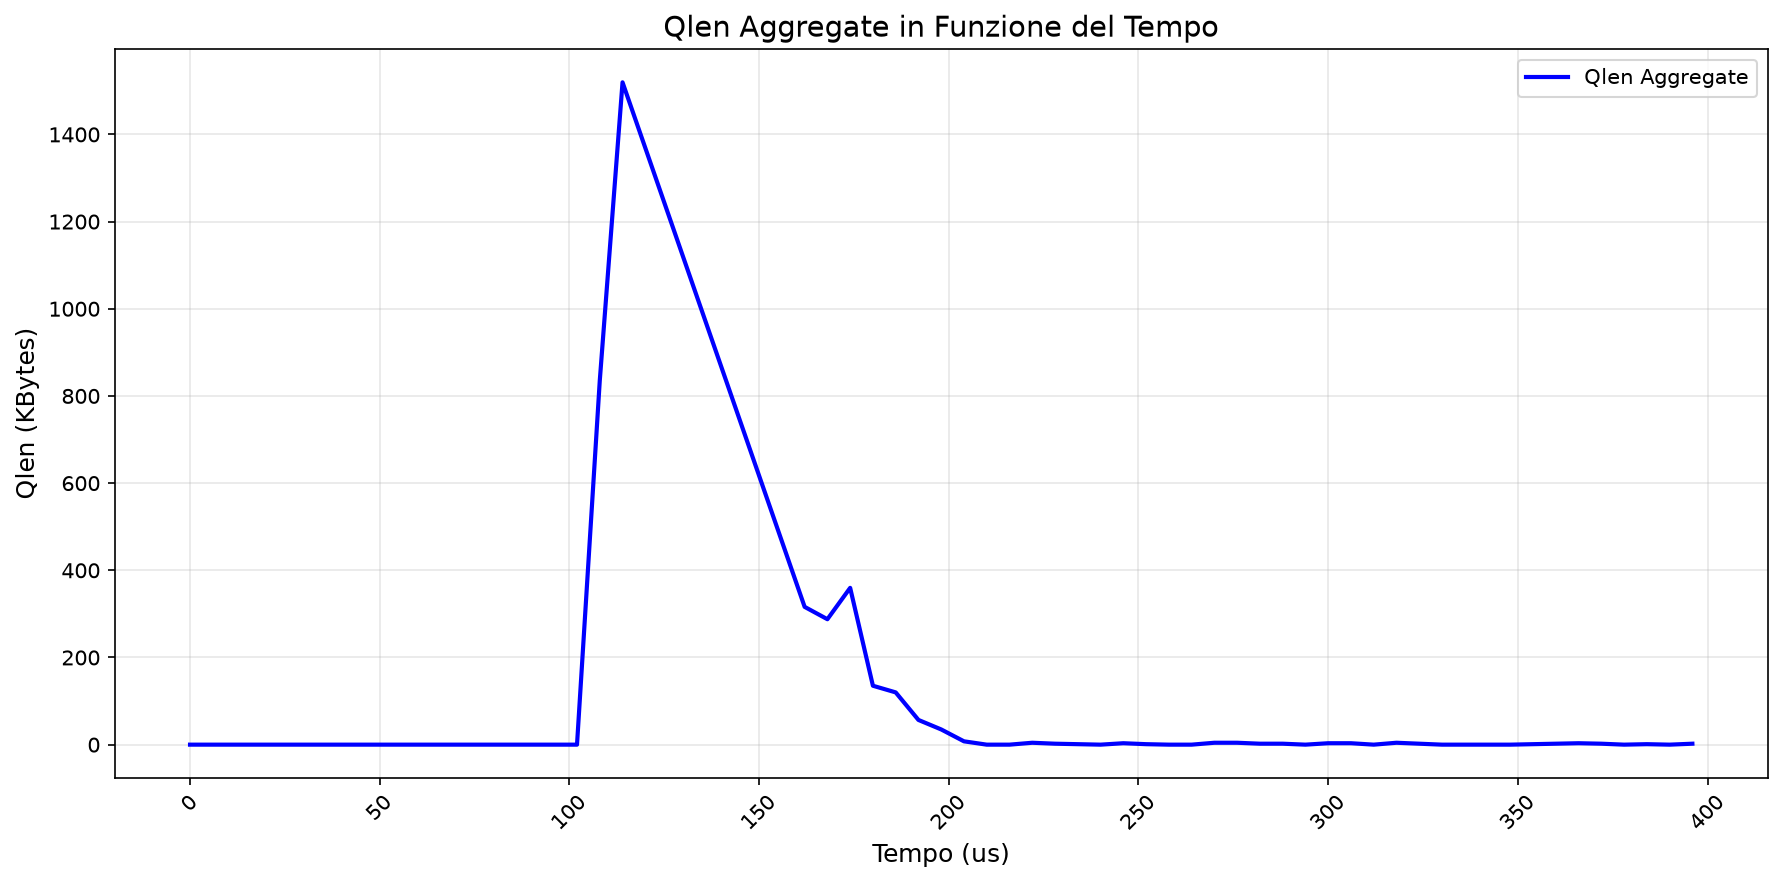
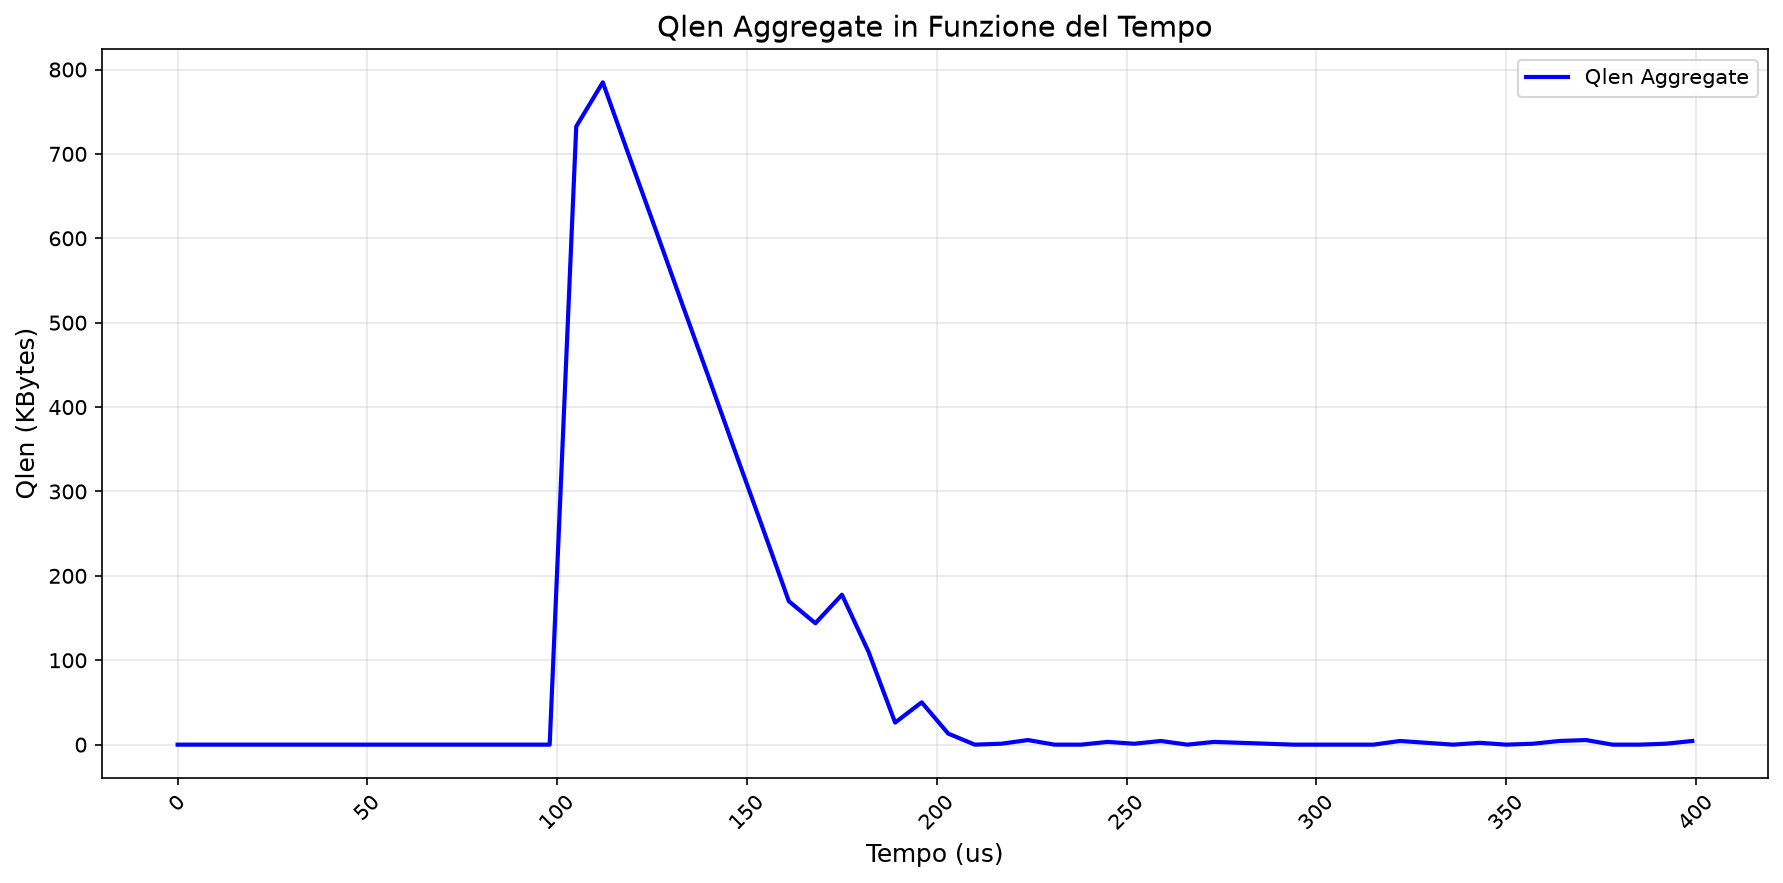
Fixed qlen and throughput visualizer

diff --git a/Trace visualizer/throughput and queues legths visualizers.py b/Trace visualizer/throughput and queues legths visualizers.py
@@ -10,7 +10,7 @@ import argparse
 
 import plt
 
-FILE_NAME = "mix_incast_incastflow_hp95ai600.tr"
+FILE_NAME = "mix_incast_incastflow_hp95ai300.tr"
 INPUT_FOLDER_ROOT = "data\\input\\"+FILE_NAME+".txt"
 OUTPUT_FOLDER = "data\\output\\"+FILE_NAME+"\\"
 
@@ -68,34 +68,36 @@ def calcola_throughput_e_queues_lengths(nome_file):
                 tr = Trace(linea)
                 flow_id = identifica_flow_id(tr)
                 queue_id = identifica_queue_id(tr)
-                if tr.type == "ACK":
+                if tr.type == "ACK" and tr.protocol == "Recv":
                     flow_id = reverse_identifica_flow_id(tr)
-                    if flows[flow_id]["last acknowledged"] >= tr.seq:
-                        continue
-                    sum = 0
+                    if (tr.dip+":"+tr.dp) == flows[flow_id]["source"]:
+                        if flows[flow_id]["last acknowledged"] >= tr.seq:
+                            continue
+                        sum = 0
 
-                    keys_to_remove = []
-                    for data in flows[flow_id]["data received"]:
-                        if int(data) >= flows[flow_id]["last acknowledged"] and int(data) < tr.seq:
-                            sum += flows[flow_id]["data received"][data]
-                            keys_to_remove.append(data)
+                        keys_to_remove = []
+                        for data in flows[flow_id]["data received"]:
+                            if int(data) >= flows[flow_id]["last acknowledged"] and int(data) < tr.seq:
+                                sum += flows[flow_id]["data received"][data]
+                                keys_to_remove.append(data)
 
-                    for k in keys_to_remove:
-                        del flows[flow_id]["data received"][k]
+                        for k in keys_to_remove:
+                            del flows[flow_id]["data received"][k]
 
-                    flows[flow_id]["last acknowledged"] = tr.seq
-                    value = sum / (tr.time - flows[flow_id]["throughput"][-1]["time"])
-                    flows[flow_id]["throughput"].append({
-                        "time": tr.time,
-                        "value": value
-                    })
+                        flows[flow_id]["last acknowledged"] = tr.seq
+                        value = sum / (tr.time - flows[flow_id]["throughput"][-1]["time"])
+                        flows[flow_id]["throughput"].append({
+                            "time": tr.time,
+                            "value": value
+                        })
 
                 elif tr.type == "DATA":
                     if not flow_id in flows:
                         flows[flow_id] = {
                             "throughput": [{"time": 2000000000, "value": 0}],
                             "data received": {},
-                            "last acknowledged": 0
+                            "last acknowledged": 0,
+                            "source": tr.sip+":"+tr.sp
                         }
                     flows[flow_id]["data received"][str(tr.seq)] = tr.size
 
@@ -288,7 +290,7 @@ if __name__ == "__main__":
 
     start_t = 2000000000
     end_t = 2000400000
-    for t in range(start_t, end_t, 6000):
+    for t in range(start_t, end_t, 7000):
         sum = 0
         for f in flows:
             app_last_index_x = last_indexes_f[f]
@@ -312,7 +314,7 @@ if __name__ == "__main__":
         })
 
 
-    for t in range(start_t, end_t, 6000):
+    for t in range(start_t, end_t, 7000):
         sum = 0
         for q in queues:
             app_last_index_x = last_indexes_q[q]
@@ -326,7 +328,7 @@ if __name__ == "__main__":
 
             last_indexes_q[q] = app_last_index_x
 
-            sum += last_elem_Q["value"]
+            sum = max(sum, last_elem_Q["value"])
 
         aggregate_queue.append({
             "time": (t - start_t) / 1000,